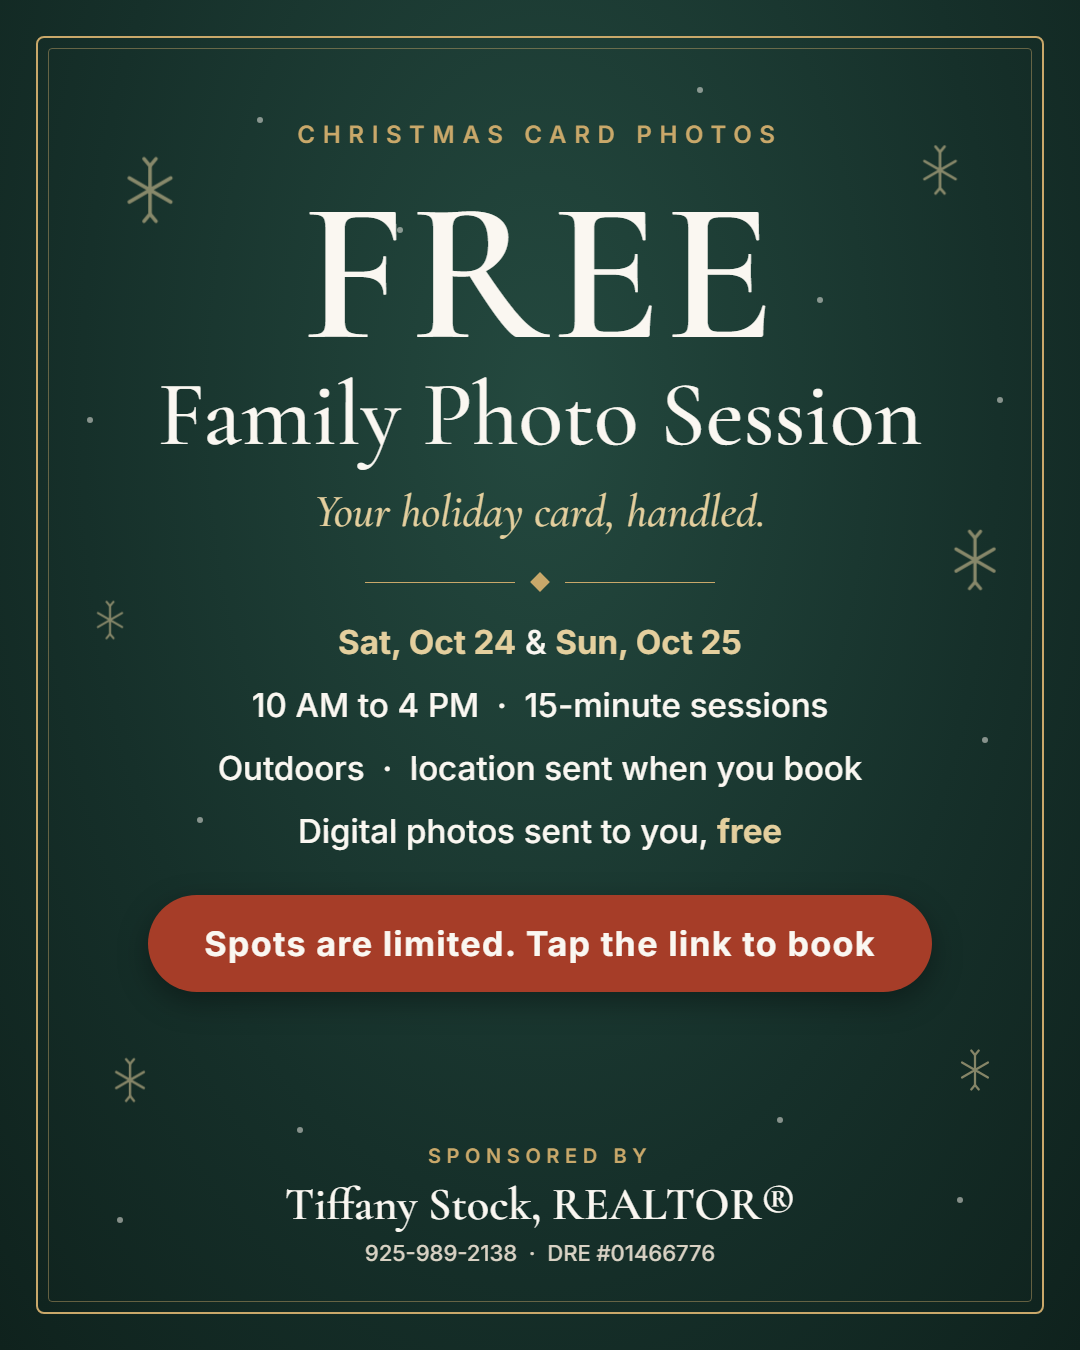
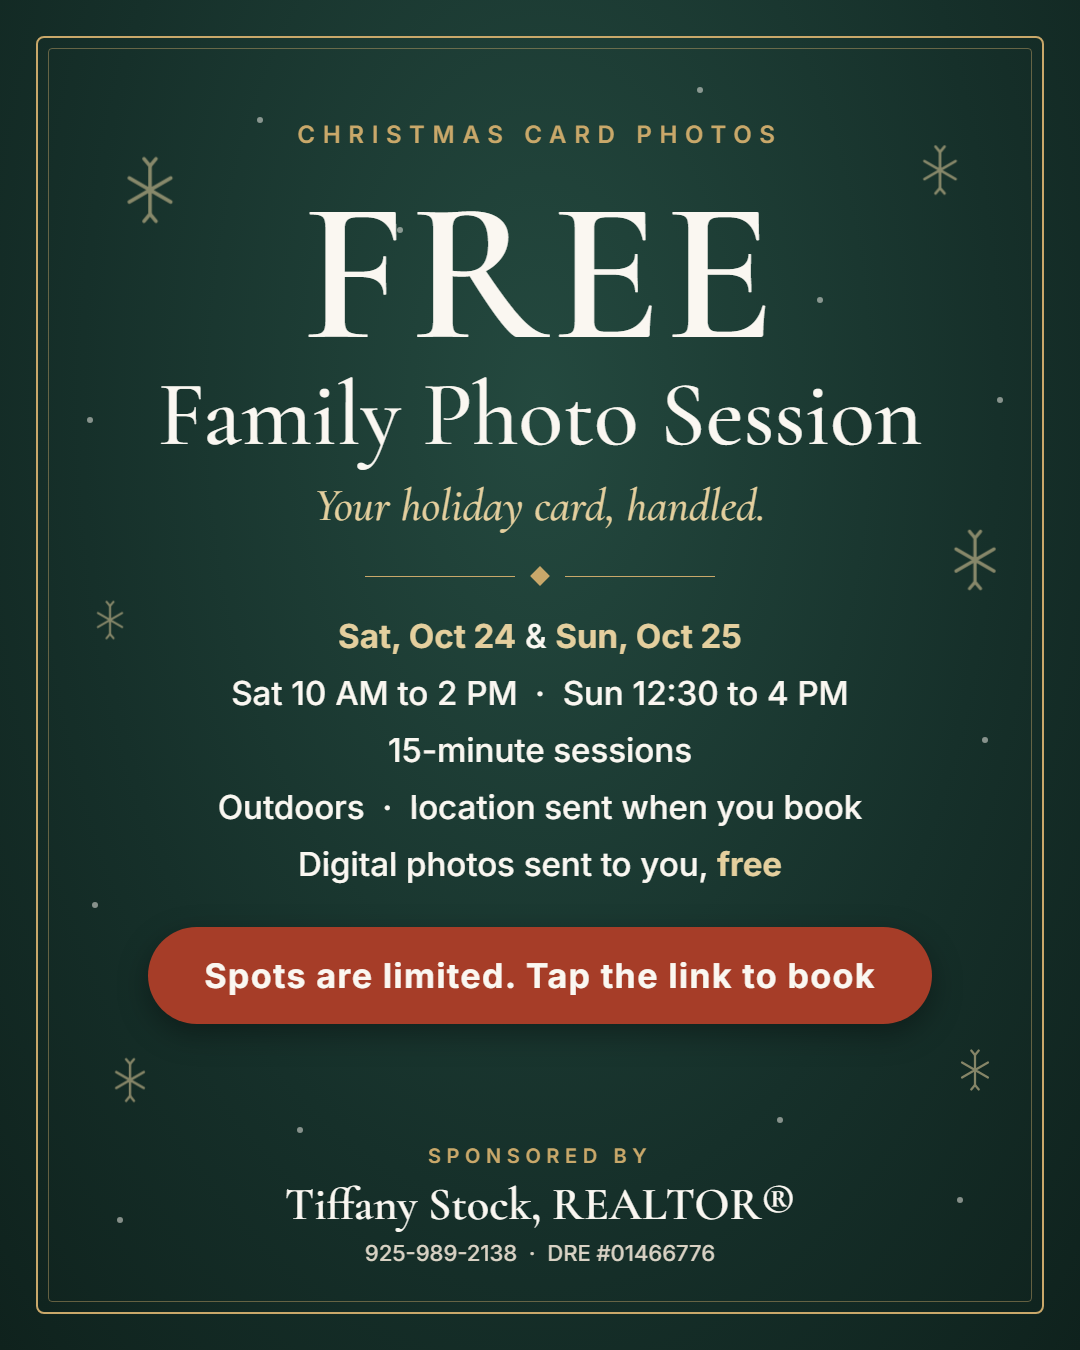
New hours: Sat 10-2, Sun 12:30-4

Changed region(s): [[0.1222, 0.4667, 0.8861, 0.7778], [0.3056, 0.3422, 0.7028, 0.4356]]

diff --git a/index.html b/index.html
@@ -4,7 +4,7 @@
 <meta charset="utf-8">
 <meta name="viewport" content="width=device-width,initial-scale=1">
 <title>Free Family Photo Session | Tiffany Stock</title>
-<meta name="description" content="Free 15-minute outdoor family photo session for your Christmas cards. Saturday Oct 24 and Sunday Oct 25. Digital photos sent to you free.">
+<meta name="description" content="Free 15-minute outdoor family photo session for your Christmas cards. Saturday Oct 24, 10 AM to 2 PM, and Sunday Oct 25, 12:30 to 4 PM. Digital photos sent to you free.">
 <meta property="og:title" content="FREE Family Photo Session for Your Christmas Cards">
 <meta property="og:description" content="15-minute outdoor sessions, Sat Oct 24 and Sun Oct 25. Digital photos sent to you free. Tap to pick your time.">
 <meta property="og:image" content="https://tiffstock.github.io/family-photos/Free-Family-Photos.png">
@@ -78,7 +78,8 @@
     <p class="tag">Your holiday card, handled.</p>
     <ul class="facts">
       <li><b>Sat, Oct 24</b> &amp; <b>Sun, Oct 25</b></li>
-      <li>15-minute sessions, 10 AM to 4 PM</li>
+      <li>Saturday 10 AM to 2 PM · Sunday 12:30 to 4 PM</li>
+      <li>15-minute sessions</li>
       <li>Outdoors. Location sent when you book.</li>
       <li>Digital photos sent to you, <b>free</b></li>
     </ul>
@@ -125,10 +126,10 @@
 const EVENT = {
   phone: "+19259892138",
   days: [
-    { id: "sat", label: "Saturday", date: "Oct 24" },
-    { id: "sun", label: "Sunday",   date: "Oct 25" }
+    { id: "sat", label: "Saturday", date: "Oct 24", start: "10:00", end: "14:00" },
+    { id: "sun", label: "Sunday",   date: "Oct 25", start: "12:30", end: "16:00" }
   ],
-  start: "10:00", end: "16:00", every: 20,   // a 15-minute session every 20 minutes
+  every: 20,   // a 15-minute session every 20 minutes
   // Times already booked. Format: "sat 10:00", "sun 2:20".
   taken: [
   ]
@@ -138,8 +139,9 @@ const EVENT = {
 const $ = id => document.getElementById(id);
 let day = EVENT.days[0].id, slot = null;
 
-function times(){
-  const [sh,sm]=EVENT.start.split(":").map(Number),[eh,em]=EVENT.end.split(":").map(Number);
+function times(id=day){
+  const D=EVENT.days.find(x=>x.id===id);
+  const [sh,sm]=D.start.split(":").map(Number),[eh,em]=D.end.split(":").map(Number);
   const out=[]; for(let m=sh*60+sm; m+15<=eh*60+em; m+=EVENT.every){
     const h=Math.floor(m/60), mm=String(m%60).padStart(2,"0");
     out.push({key:`${h>12?h-12:h}:${mm}`, ampm:h<12?"AM":"PM"});
@@ -149,7 +151,7 @@ const isTaken = (d,t) => EVENT.taken.map(s=>s.trim().toLowerCase()).includes(`${
 
 function render(){
   $("days").innerHTML = EVENT.days.map(d=>{
-    const open = times().filter(t=>!isTaken(d.id,t.key)).length;
+    const open = times(d.id).filter(t=>!isTaken(d.id,t.key)).length;
     return `<button type="button" class="day" aria-pressed="${d.id===day}" data-day="${d.id}">${d.label}<small>${d.date} · ${open} open</small></button>`;
   }).join("");
   const list = times();
